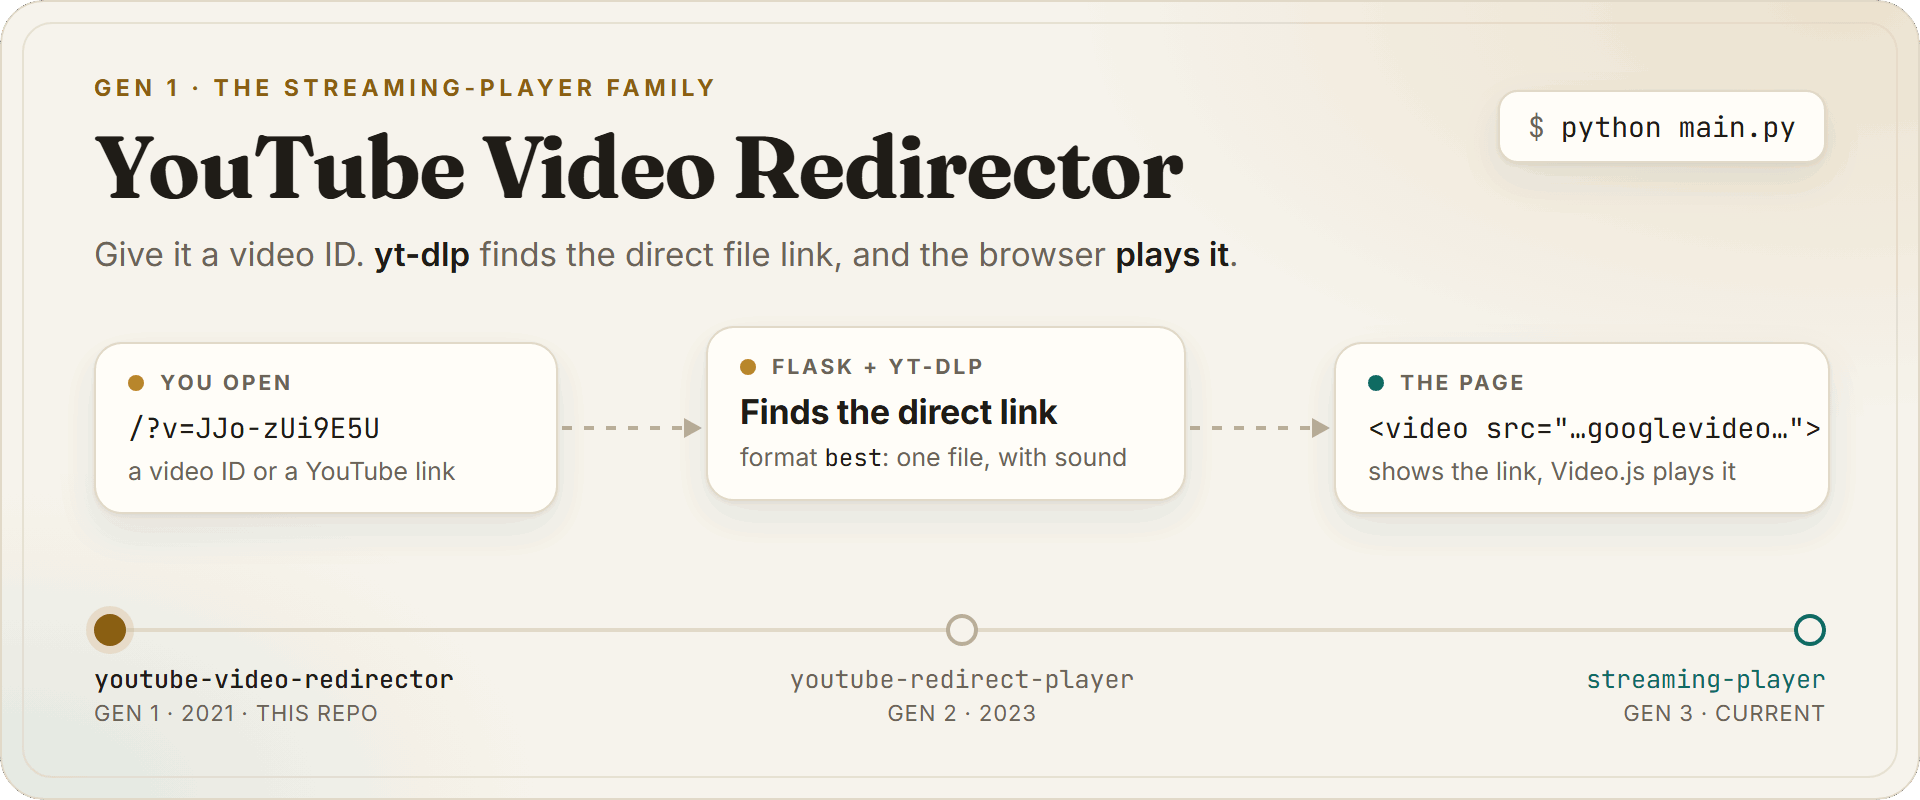
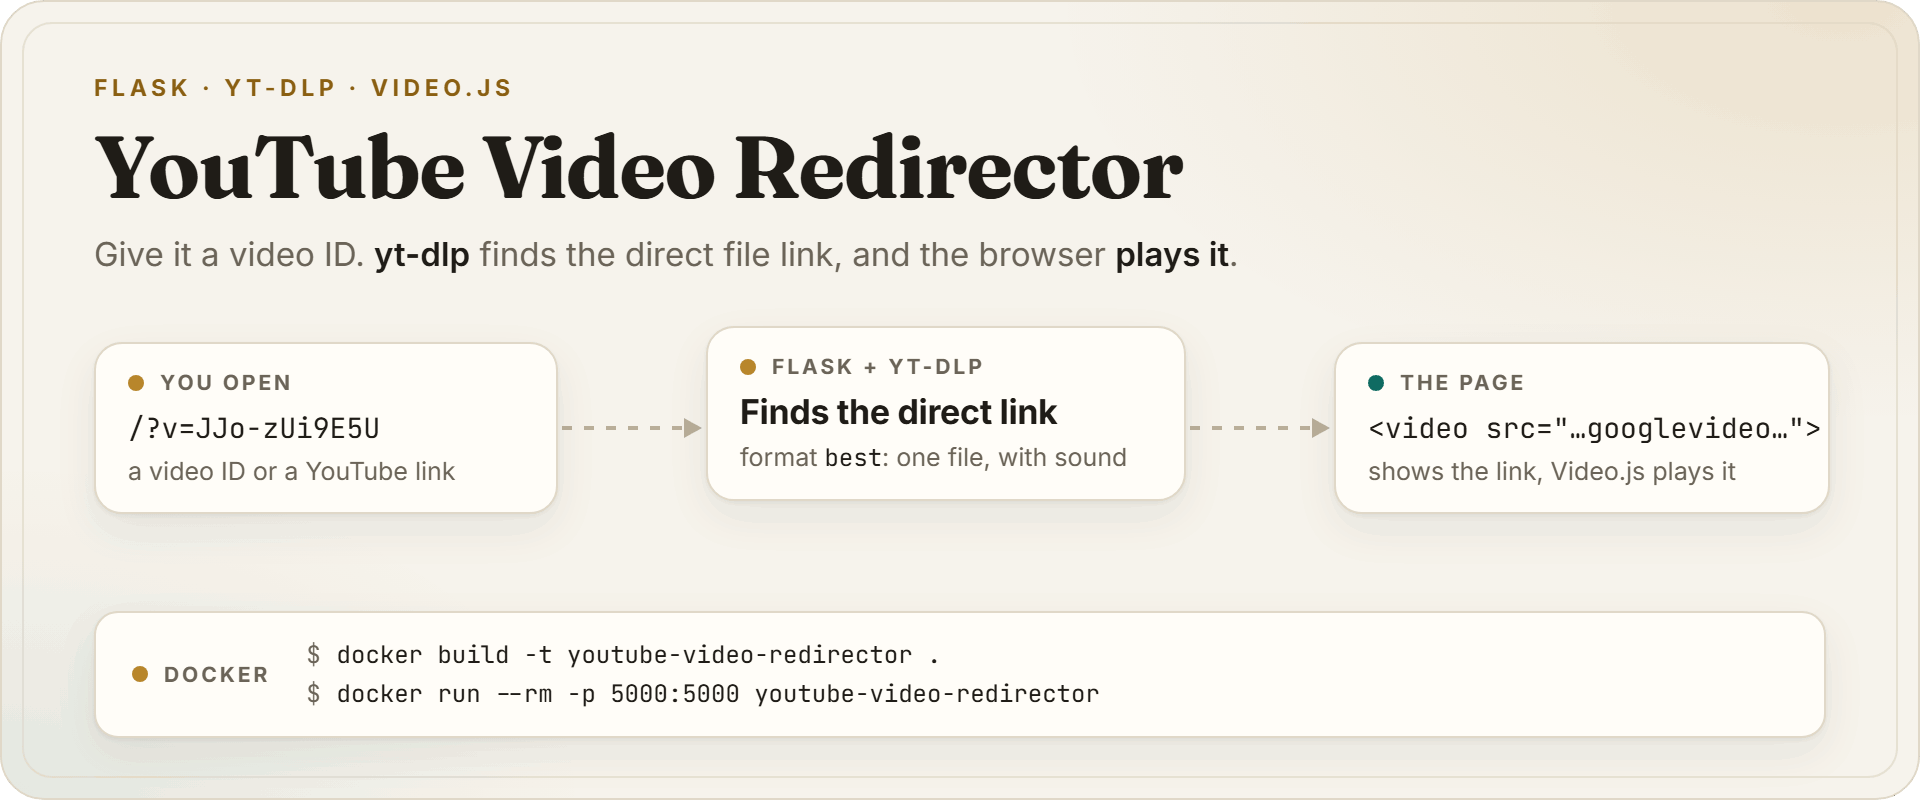
docs: make the cover about this project alone
The owner doesn't want this repo and its relatives described as
generations of each other, so the cover drops the "Gen 1 · the
streaming-player family" line and the three-repo timeline. The small
line on top now names the stack (Flask · yt-dlp · Video.js), and the
bottom strip shows the two Docker commands from the README. The corner
`python main.py` chip went with it, so the cover doesn't list two ways
to start. cover.png (the 1280x640 social preview) is rebuilt from the
new banner.

diff --git a/docs/images/src/hero.html b/docs/images/src/hero.html
@@ -1,6 +1,6 @@
 <!doctype html>
 <!--
-  README banner, one of a pair with youtube-redirect-player (same layout, same palette).
+  README banner.
   Render the light and dark versions (#dark picks the dark theme) with a Chromium-based browser:
     msedge --headless=new --hide-scrollbars --force-device-scale-factor=2 --window-size=960,400
            --default-background-color=00000000 --virtual-time-budget=5000
@@ -46,9 +46,6 @@
   .tag { margin: 12px 0 0; font-size: 16.5px; color: var(--muted); }
   .tag b { color: var(--ink); font-weight: 600; }
 
-  .cmd { position: absolute; right: 46px; top: 44px; font-family: "JetBrains Mono", Consolas, monospace; font-size: 14px;
-         padding: 8px 14px; border-radius: 10px; border: 1px solid var(--line); background: var(--card); box-shadow: var(--shadow); }
-  .cmd span { color: var(--muted); margin-right: 8px; user-select: none; }
 
   .node { position: absolute; background: var(--card); border: 1px solid var(--line); border-radius: 14px;
           box-shadow: var(--shadow); padding: 13px 16px; }
@@ -69,33 +66,21 @@
   .wire { fill: none; stroke: var(--wire); stroke-width: 2; stroke-dasharray: 5 6; }
   .head { fill: var(--wire); }
 
-  .lineage { position: absolute; left: 46px; right: 46px; bottom: 34px; height: 58px; }
-  .rail { position: absolute; left: 7px; right: 7px; top: 7px; height: 2px; background: var(--line); }
-  .stop { position: absolute; top: 0; width: 260px; }
-  .stop .dot { width: 16px; height: 16px; border-radius: 50%; border: 2px solid var(--wire); background: var(--bg); }
-  .stop .name { margin-top: 8px; font-family: "JetBrains Mono", Consolas, monospace; font-size: 12.5px; color: var(--muted); }
-  .stop .when { font-size: 11px; color: var(--muted); margin-top: 2px; letter-spacing: .04em; }
-  .stop.here .dot { border-color: var(--brass); background: var(--brass); box-shadow: 0 0 0 4px var(--tint1); }
-  .stop.here .name { color: var(--ink); font-weight: 500; }
-  .stop.now .dot { border-color: var(--teal); }
-  .stop.now .name { color: var(--teal); }
-  #g1 { left: 0; }
-  #g2 { left: 434px; transform: translateX(-50%); text-align: center; }
-  #g3 { right: 0; width: 180px; text-align: right; }
-  #g2 .dot { margin: 0 auto; }
-  #g3 .dot { margin-left: auto; }
+  .run { position: absolute; left: 46px; right: 46px; bottom: 30px; display: flex; align-items: center; gap: 18px;
+         padding: 11px 18px; border-radius: 12px; border: 1px solid var(--line); background: var(--card); box-shadow: var(--shadow); }
+  .run .label { flex: none; }
+  .run .lines { font-family: "JetBrains Mono", Consolas, monospace; font-size: 12px; line-height: 1.65; white-space: nowrap; }
+  .run .lines span { color: var(--muted); margin-right: 8px; user-select: none; }
 </style>
 </head>
 <body>
 <script>if (location.hash === '#dark') document.documentElement.className = 'dark';</script>
 <div class="frame">
   <header>
-    <p class="eyebrow">Gen 1 · the streaming-player family</p>
+    <p class="eyebrow">Flask · yt-dlp · Video.js</p>
     <h1>YouTube Video Redirector</h1>
     <p class="tag">Give it a video ID. <b>yt-dlp</b> finds the direct file link, and the browser <b>plays it</b>.</p>
   </header>
-
-  <div class="cmd"><span>$</span>python main.py</div>
 
   <svg class="wires" width="960" height="400">
     <path class="wire" d="M280 213 H344"/>
@@ -122,11 +107,9 @@
     <div class="sub">shows the link, Video.js plays it</div>
   </div>
 
-  <div class="lineage">
-    <div class="rail"></div>
-    <div class="stop here" id="g1"><div class="dot"></div><div class="name">youtube-video-redirector</div><div class="when">GEN 1 · 2021 · THIS REPO</div></div>
-    <div class="stop" id="g2"><div class="dot"></div><div class="name">youtube-redirect-player</div><div class="when">GEN 2 · 2023</div></div>
-    <div class="stop now" id="g3"><div class="dot"></div><div class="name">streaming-player</div><div class="when">GEN 3 · CURRENT</div></div>
+  <div class="run">
+    <div class="label"><i></i>Docker</div>
+    <div class="lines"><span>$</span>docker build -t youtube-video-redirector .<br><span>$</span>docker run --rm -p 5000:5000 youtube-video-redirector</div>
   </div>
 </div>
 </body>
